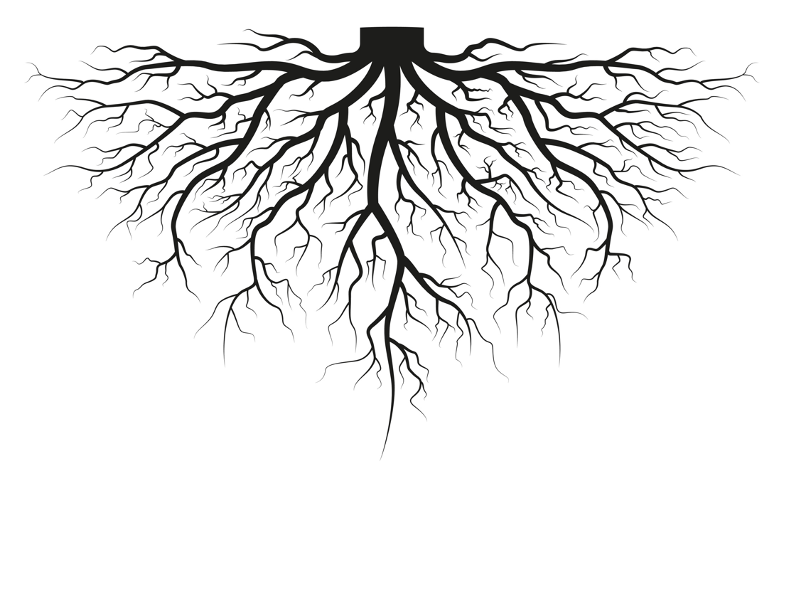
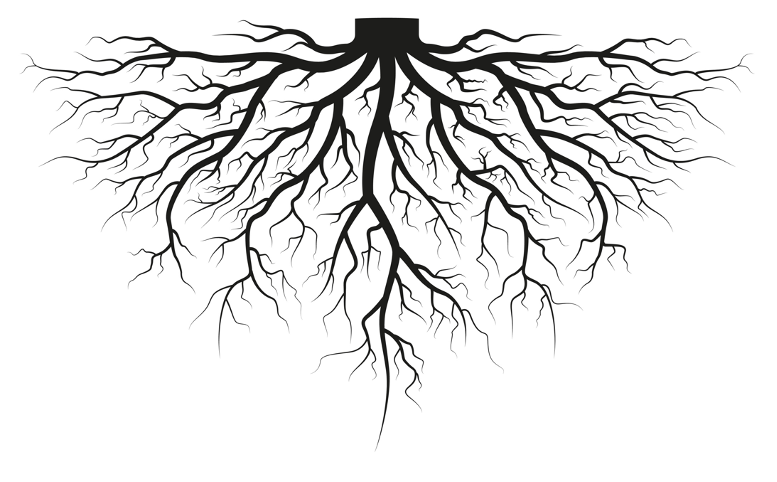
new layout

Changed region(s): [[0.0309, 0.0311, 0.9575, 0.8402]]

diff --git a/index.html b/index.html
@@ -35,7 +35,7 @@
 
   .container2{
   font-family: "American Typewriter";
-  font-size: 30px;
+  font-size: 35px;
   display: inline-block;
 }
 
@@ -89,16 +89,13 @@
       </div>
       </div>
 
-    <section class="hero is-small is-warning">
+    <section class="hero is-warning">
       <div class="hero-body">
         <p class="title">
-          Our history
+          Ismail Dada and Jenabai
         </p>
         <p class="subtitle">
-          Our roots begin with Meghji Dada, who was the first of our ancestors to convert to Islam. After him came Anandji Dada, Kalayanji Dada, Savji Dada, Loveji Dada, Jiwan Dada, and finally Ismail Dada. 
-        </p>
-        <p class="subtitle">
-          Ismail Dada and his wife Jenabai are the foundation of our tree and had nine children - five sons and four daughters. This family tree tracks the families of the five sons and their wives, but we would be remiss to not mention Ismail and Jinabai's daughters, Sultana, Dawlat, Mehru, and Amina, who each went on to build families of their own.
+          are the foundation of our tree and had nine children - five sons and four daughters. This family tree tracks the families of the five sons and their wives, but we would be remiss to not mention Ismail and Jinabai's daughters, Sultana, Dawlat, Mehru, and Amina, who each went on to build families of their own.
         </p>
       </div>
     </section>
@@ -197,38 +194,52 @@
               </div>
             </div>
           </div>
-      
-      <div class="svg-container">
-      <svg width=100% height=135px>
 
-        <path class="path" fill="white" stroke="black" stroke-width="4" d="M1.262,83.113C34.232,65.178,70.319,49.131,108.196,46.06c21.882-1.774,40.842,2.633,61.115,10.177
-        c31.459,11.706,69.682,18.869,102.381,8.043c9.806-3.246,18.711-8.46,26.059-15.747c4.166-4.132,7.728-7.316,7.072-13.339
-        c-0.676-6.207-3.806-11.957-9.524-14.82c-11.136-5.575-29.752-3.291-35.623,8.606c-4.05,8.208,0.185,15.079,6.248,20.85
-        c23.212,22.092,61.13,31.219,91.96,33.911c41.883,3.657,80.614-10.318,120.706-20.314c23.097-5.758,46.088-12.055,69.314-17.279
-        c17.324-3.896,35.151-7.379,52.996-6.622c17.349,0.736,33.74,6.564,46.917,18.054c5.122,4.466,16.665,13.852,15.048,21.465
-        c-3.632,17.105-29.672,0.517-21.107-10.704c2.914-3.817,9.097-5.467,13.381-6.661c10.382-2.893,21.371-3.8,32.103-4.241
-        c22.014-0.905,44.1,1.206,65.807,4.777c36.618,6.024,72.34,16.36,108.216,25.649c27.854,7.212,56.457,15.808,85.519,15.011
-        c39.441-1.082,76.698-15.847,113.676-28.09c18.9-6.258,38.062-12.091,57.768-15.201c22.986-3.628,45.591-2.369,68.274,2.685
-        c38.904,8.668,77.027,24.644,117.624,18.946c16.063-2.255,31.87-7.855,44.457-18.329c3.224-2.682,8.479-6.259,6.787-11.165
-        c-1.763-5.114-9.057-5.627-13.55-5.043c-10.323,1.342-23.172,11.805-20.314,23.515c1.532,6.28,11.1,7.118,16.571,8.534
-        c9.851,2.55,20.037,3.829,30.201,4.112c43.629,1.213,84.777-14.933,127.666-19.641c35.568-3.904,68.203,10.316,100.664,22.634
-        c31.609,11.995,63.52,19.638,97.213,12.123c17.155-3.827,33.675-10.067,49.304-18.07c2.865-1.467,0.338-5.783-2.524-4.317
-        c-33.263,17.033-69.862,25.528-106.762,16.941c-30.672-7.138-58.672-22.433-89.149-30.209c-15.055-3.841-30.674-5.701-46.195-4.351
-        c-19.893,1.731-39.569,6.904-59.061,11.014c-21.438,4.519-43.157,8.775-65.146,8.936c-9.739,0.071-19.501-0.659-29.049-2.635
-        c-4.584-0.948-10.326-1.743-14.498-3.983c-3.69-1.982-4.843-2.185-4.047-6.873c0.445-2.619,2.645-5.424,4.433-7.172
-        c3.3-3.226,8.003-5.579,12.652-5.752c6.072-0.227,6.582,3.313,2.208,7.059c-7.528,6.448-16.467,11.011-25.88,14.011
-        c-16.941,5.399-35.267,5.919-52.815,3.811c-42.196-5.068-81.422-24.917-124.543-24.028c-74.129,1.529-140.037,52.73-215.086,44.858
-        c-30.933-3.244-61.537-13.181-91.5-21.037c-33.012-8.656-66.044-17.207-99.986-21.38c-20.06-2.466-40.433-3.48-60.586-1.554
-        c-11.38,1.088-26.196,2.188-35.472,9.842c-17.228,14.215,15.096,42.171,26.452,20.098c6.052-11.763-9.203-24.232-17.305-30.884
-        c-10.741-8.818-23.56-14.52-37.275-16.669c-33.673-5.278-69.217,6.328-101.451,14.594c-22.19,5.691-44.457,11.08-66.638,16.806
-        c-18.134,4.681-36.062,10.762-54.862,12.066c-37.174,2.578-78.798-4.919-110.361-25.656c-4.554-2.992-9.304-6.433-12.672-10.796
-        c-5.415-7.016-2.651-16.151,6.888-18.802c9.517-2.645,26.29-0.824,26.879,11.591c0.315,6.642-8.666,12.962-13.958,16.543
-        c-26.799,18.131-65.696,13.792-95.132,5.923c-20.548-5.493-39.063-15.199-60.551-16.91c-26.696-2.126-53.606,4.213-78.512,13.36
-        C33.363,61.037,15.813,69.507-1.262,78.795C-4.089,80.333-1.568,84.652,1.262,83.113L1.262,83.113z"/>
-        
-      </svg>
+          <div class="svg-container">
+            <svg width=100% height=190px>
+      
+              <path class="path" fill="white" stroke="black" stroke-width="4.5" d="M2.524,108.271c33.058-17.983,69.438-34.218,107.494-36.849c22.583-1.561,41.171,4.016,62.051,11.475
+              c31.759,11.346,71.181,17.993,103.617,5.605c11.175-4.268,21.761-11.347,29.013-20.993c8.374-11.139-2.613-26.371-14.82-28.243
+              c-13.725-2.105-31.925,0.576-34.321,17.28c-1.378,9.611,7.124,17.315,14.013,22.579c28.47,21.755,68.526,30.494,103.659,30.825
+              c19.491,0.184,37.364-3.298,56.037-8.329c24.359-6.563,48.896-12.431,73.345-18.644c20.586-5.232,41.124-10.893,62.029-14.739
+              c16.754-3.082,34.564-5.151,51.366-1.24c16.329,3.801,34.297,14.512,42.798,29.441c4.225,7.42-4.699,14.098-11.653,8.04
+              c-2.375-2.069-5.285-8.017-4.32-10.274c1.32-3.089,5.625-4.632,8.493-5.715c18.74-7.076,41.399-6.393,61.097-5.339
+              c21.518,1.151,42.849,4.553,63.916,8.991c36.81,7.754,72.902,18.615,109.441,27.506c29.487,7.176,57.199,11.01,87.53,6.062
+              c41.096-6.704,79.249-24.494,119.329-35.067c20.045-5.288,40.642-8.71,61.432-7.638c24.132,1.245,47.376,8.565,70.551,14.819
+              c36.241,9.779,73.126,13.703,109.236,0.601c8.254-2.995,21.533-8.001,23.258-18.052c2.063-12.022-14.566-23.574-25.235-18.656
+              c-10.733,4.948-14.822,22.064-4.903,29.627c10.78,8.219,27.963,4.077,40.202,2.314c23.402-3.372,46.979-5.344,70.393-8.626
+              c20.921-2.933,40.637-5.277,61.759-2.86c39.635,4.535,78.679,14.696,115.948,28.723c27.268,10.262,52.821,17.689,82.165,12.167
+              c16.598-3.123,32.403-9.5,46.946-18.017c5.55-3.251,0.523-11.897-5.047-8.635c-26.851,15.725-58.694,23.489-89.319,15.739
+              c-29.608-7.493-57.178-21.204-87.034-28.284c-36.405-8.632-74.503-16.503-111.944-10.945c-23.89,3.546-47.851,6.102-71.81,9.118
+              c-8.025,1.01-16.014,2.388-24.05,3.287c-5.763,0.645-16.895,2.495-21.821-1.661c-3.436-2.899-2.163-7.889,0.43-10.777
+              c3.619-4.029,11.197-1.216,12.872,3.779c1.662,4.956-5.885,7.95-9.593,9.707c-14.337,6.793-31.218,9.479-46.902,10.494
+              c-42.126,2.728-80.923-16.979-122.061-22.511c-79.829-10.735-148.418,44.604-226.973,44.078
+              c-28.307-0.189-56.473-9.234-83.618-16.292c-34.909-9.077-69.688-18.984-105.369-24.625c-19.504-3.084-39.256-5.072-59.02-4.746
+              c-15.836,0.261-33.963,0.926-48.585,7.753c-6.023,2.812-11.366,7.207-11.817,14.226c-0.942,14.633,16.316,27.611,29.564,19.602
+              c5.196-3.141,9.414-10.202,8.533-16.431c-0.811-5.73-7.484-12.22-11.262-16.335c-10.433-11.364-23.972-19.847-38.933-23.747
+              c-32.019-8.345-67.072,1.89-98.123,9.731c-22.532,5.69-45.069,11.357-67.599,17.054c-18.246,4.614-36.468,10.88-55.099,13.765
+              c-38.213,5.917-82.123-1.747-115.557-21.451c-6.325-3.728-22.332-12.48-17.715-21.808c3.643-7.36,21.336-9.382,27.605-3.564
+              c8.662,8.039-1.435,15.228-7.735,19.928c-25.387,18.938-64.015,14.886-92.656,7.599c-21.098-5.367-40.154-15.467-62.078-17.493
+              c-27.366-2.528-55.177,3.914-80.712,13.318C32.499,81.718,14.745,90.243-2.524,99.637C-8.179,102.713-3.137,111.351,2.524,108.271
+              L2.524,108.271z"/>
+              
+            </svg>
+          </div>
+        </section>
+
+  <section class="hero is-warning">
+    <div class="hero-body">
+      <p class="title">
+        Our family history
+      </p>
+      <p class="subtitle">
+        Our roots begin with Meghji Dada, who was the first of our ancestors to convert to Islam. After him came Anandji Dada, Kalayanji Dada, Savji Dada, Loveji Dada, Jiwan Dada, and finally Ismail Dada. 
+      </p>
     </div>
-    </section>
+  </section>
+  <div class="card-image parent">
+    <img src="assets/roots3.png" alt="Tree">
+  </div>
   </body>
 
   <script>
